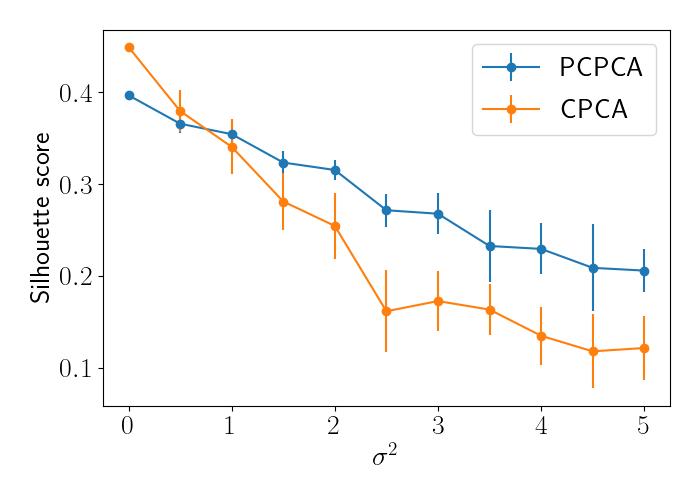
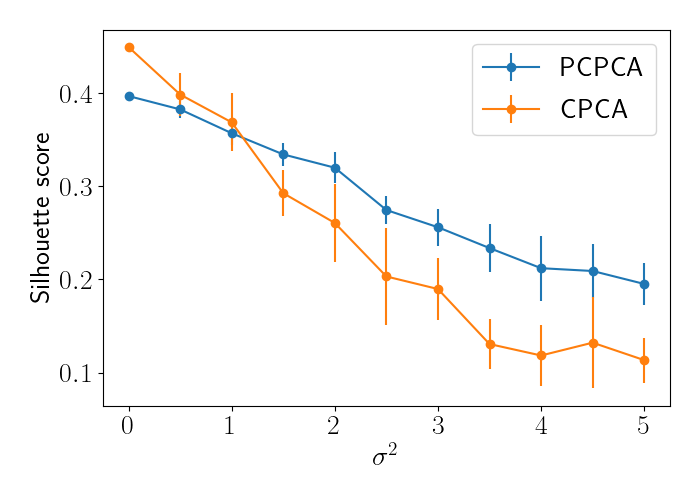
cleanup

diff --git a/experiments/realworld/mouse_protein_expression/mouse_protein_expression_vary_sigma2.py b/experiments/realworld/mouse_protein_expression/mouse_protein_expression_vary_sigma2.py
@@ -66,8 +66,8 @@ if __name__ == "__main__":
     best_gammas_cpca = []
     best_gammas_pcpca = []
 
-    best_rand_scores_cpca = np.empty((n_repeats, len(sigma2_range)))
-    best_rand_scores_pcpca = np.empty((n_repeats, len(sigma2_range)))
+    best_cluster_scores_cpca = np.empty((n_repeats, len(sigma2_range)))
+    best_cluster_scores_pcpca = np.empty((n_repeats, len(sigma2_range)))
 
     for repeat_ii in range(n_repeats):
         for sigma2_ii, sigma2 in enumerate(sigma2_range):
@@ -80,7 +80,7 @@ if __name__ == "__main__":
             curr_Y = Y + np.random.normal(loc=0,
                                           scale=np.sqrt(sigma2), size=(p, m))
 
-            rand_scores_cpca = []
+            cluster_scores_cpca = []
             cpca_gamma_plot_list = []
             for ii, gamma in enumerate(gamma_range_cpca):
 
@@ -96,17 +96,17 @@ if __name__ == "__main__":
                 cpca_gamma_plot_list.append(gamma)
 
                 true_labels = pd.factorize(X_df.Genotype)[0]
-                rand_score = silhouette_score(
+                cluster_score = silhouette_score(
                     X=X_reduced.T, labels=true_labels)
-                rand_scores_cpca.append(rand_score)
+                cluster_scores_cpca.append(cluster_score)
 
             best_gamma = np.array(gamma_range_cpca)[
-                np.argmax(np.array(rand_scores_cpca))]
+                np.argmax(np.array(cluster_scores_cpca))]
             best_gammas_cpca.append(best_gamma)
-            best_rand_scores_cpca[repeat_ii, sigma2_ii] = np.max(
-                np.array(rand_scores_cpca))
+            best_cluster_scores_cpca[repeat_ii, sigma2_ii] = np.max(
+                np.array(cluster_scores_cpca))
 
-            rand_scores_pcpca = []
+            cluster_scores_pcpca = []
             pcpca_gamma_plot_list = []
             for ii, gamma in enumerate(gamma_range_pcpca):
 
@@ -123,22 +123,22 @@ if __name__ == "__main__":
                 pcpca_gamma_plot_list.append(gamma)
 
                 true_labels = pd.factorize(X_df.Genotype)[0]
-                rand_score = silhouette_score(
+                cluster_score = silhouette_score(
                     X=X_reduced.T, labels=true_labels)
-                rand_scores_pcpca.append(rand_score)
+                cluster_scores_pcpca.append(cluster_score)
 
             best_gamma = np.array(gamma_range_pcpca)[
-                np.argmax(np.array(rand_scores_pcpca))]
+                np.argmax(np.array(cluster_scores_pcpca))]
             best_gammas_pcpca.append(best_gamma)
-            best_rand_scores_pcpca[repeat_ii, sigma2_ii] = np.max(
-                np.array(rand_scores_pcpca))
+            best_cluster_scores_pcpca[repeat_ii, sigma2_ii] = np.max(
+                np.array(cluster_scores_pcpca))
 
     plt.figure(figsize=(7, 5))
 
-    plt.errorbar(sigma2_range, np.mean(best_rand_scores_pcpca, axis=0), yerr=mean_confidence_interval(
-        best_rand_scores_pcpca), fmt='-o', label="PCPCA")
-    plt.errorbar(sigma2_range, np.mean(best_rand_scores_cpca, axis=0), yerr=mean_confidence_interval(
-        best_rand_scores_cpca), fmt='-o', label="CPCA")
+    plt.errorbar(sigma2_range, np.mean(best_cluster_scores_pcpca, axis=0), yerr=mean_confidence_interval(
+        best_cluster_scores_pcpca), fmt='-o', label="PCPCA")
+    plt.errorbar(sigma2_range, np.mean(best_cluster_scores_cpca, axis=0), yerr=mean_confidence_interval(
+        best_cluster_scores_cpca), fmt='-o', label="CPCA")
     plt.legend()
     plt.xlabel(r'$\sigma^2$')
     plt.ylabel("Silhouette score")

diff --git a/experiments/realworld/mouse_protein_expression/mouse_protein_expression_silhouette.py b/experiments/realworld/mouse_protein_expression/mouse_protein_expression_silhouette.py
@@ -7,7 +7,6 @@ import pandas as pd
 import matplotlib.pyplot as plt
 import seaborn as sns
 from sklearn.cluster import KMeans
-from sklearn.metrics import adjusted_rand_score
 from sklearn.metrics import silhouette_score
 from sklearn.decomposition import PCA
 
@@ -54,7 +53,7 @@ if __name__ == "__main__":
     gamma_range_cpca = list(np.linspace(0, 400, 40))
     gamma_range_pcpca = list(np.linspace(0, 0.99, 40))
 
-    rand_scores_cpca = []
+    cluster_scores_cpca = []
     cpca_gamma_plot_list = []
     for ii, gamma in enumerate(gamma_range_cpca):
 
@@ -71,11 +70,11 @@ if __name__ == "__main__":
         cpca_gamma_plot_list.append(gamma)
 
         true_labels = pd.factorize(X_df.Genotype)[0]
-        rand_score = silhouette_score(X=X_reduced.T, labels=true_labels)
-        print("gamma={}, rand score={}".format(gamma, rand_score))
-        rand_scores_cpca.append(rand_score)
+        cluster_score = silhouette_score(X=X_reduced.T, labels=true_labels)
+        print("gamma={}, cluster score={}".format(gamma, cluster_score))
+        cluster_scores_cpca.append(cluster_score)
 
-    rand_scores_pcpca = []
+    cluster_scores_pcpca = []
     pcpca_gamma_plot_list = []
     for ii, gamma in enumerate(gamma_range_pcpca):
         gamma = gamma
@@ -91,27 +90,27 @@ if __name__ == "__main__":
         pcpca_gamma_plot_list.append(gamma)
 
         true_labels = pd.factorize(X_df.Genotype)[0]
-        rand_score = silhouette_score(X=X_reduced.T, labels=true_labels)
-        print("gamma'=*{}, rand score={}".format(gamma, rand_score))
-        rand_scores_pcpca.append(rand_score)
+        cluster_score = silhouette_score(X=X_reduced.T, labels=true_labels)
+        print("gamma'=*{}, cluster score={}".format(gamma, cluster_score))
+        cluster_scores_pcpca.append(cluster_score)
 
     plt.figure(figsize=(28, 6))
     plt.subplot(141)
-    plt.plot(cpca_gamma_plot_list, rand_scores_cpca, '-o', linewidth=2)
+    plt.plot(cpca_gamma_plot_list, cluster_scores_cpca, '-o', linewidth=2)
     plt.title("CPCA")
     plt.ylim([0, 1])
     plt.xlim([0, cpca_gamma_plot_list[-1] + 40])
     plt.axvline(cpca_fail_gamma, color="black", linestyle="--")
-    plt.axhline(np.max(rand_scores_cpca), color="red", linestyle="--")
+    plt.axhline(np.max(cluster_scores_cpca), color="red", linestyle="--")
     plt.xlabel(r'$\gamma^\prime$')
     plt.ylabel("Silhouette score")
     plt.subplot(142)
-    plt.plot(pcpca_gamma_plot_list, rand_scores_pcpca, '-o', linewidth=2)
+    plt.plot(pcpca_gamma_plot_list, cluster_scores_pcpca, '-o', linewidth=2)
     plt.title("PCPCA")
     plt.ylim([0, 1])
     plt.xlim([0, pcpca_gamma_plot_list[-1] + 0.1])
     plt.axvline(pcpca_fail_gamma, color="black", linestyle="--")
-    plt.axhline(np.max(rand_scores_pcpca), color="red", linestyle="--")
+    plt.axhline(np.max(cluster_scores_pcpca), color="red", linestyle="--")
     plt.xlabel(r'$\gamma^\prime$')
     plt.ylabel("Silhouette score")
 
@@ -167,10 +166,10 @@ if __name__ == "__main__":
 
     plt.tight_layout()
     plt.savefig(
-        "../../../plots/mouse_protein_expression/rand_index_comparison.png")
+        "../../../plots/mouse_protein_expression/cluster_score_comparison.png")
 
-    print(np.max(rand_scores_cpca))
-    print(np.max(rand_scores_pcpca))
+    print(np.max(cluster_scores_cpca))
+    print(np.max(cluster_scores_pcpca))
     plt.show()
 
     import ipdb

diff --git a/experiments/realworld/scrnaseq/single_cell_bmmc_silhouette.py b/experiments/realworld/scrnaseq/single_cell_bmmc_silhouette.py
@@ -64,7 +64,7 @@ if __name__ == "__main__":
 
     gamma_range_cpca = np.linspace(0, 5, 20)
 
-    rand_scores_cpca = []
+    cluster_scores_cpca = []
     cpca_gamma_plot_list = []
     for ii, gamma in enumerate(gamma_range_cpca):
 
@@ -80,9 +80,9 @@ if __name__ == "__main__":
         cpca_gamma_plot_list.append(gamma)
 
         true_labels = pd.factorize(X_df.condition)[0]
-        rand_score = silhouette_score(X=X_reduced.T, labels=true_labels)
-        print("gamma={}, rand score={}".format(gamma, rand_score))
-        rand_scores_cpca.append(rand_score)
+        cluster_score = silhouette_score(X=X_reduced.T, labels=true_labels)
+        print("gamma={}, cluster score={}".format(gamma, cluster_score))
+        cluster_scores_cpca.append(cluster_score)
 
         X_reduced_df = pd.DataFrame(X_reduced.T, columns=["PCPC1", "PCPC2"])
         X_reduced_df['condition'] = X_labels
@@ -91,7 +91,7 @@ if __name__ == "__main__":
 
     gamma_range_pcpca = np.linspace(0, 1-1e-3, 20)
 
-    rand_scores_pcpca = []
+    cluster_scores_pcpca = []
     pcpca_gamma_plot_list = []
     for ii, gamma in enumerate(gamma_range_pcpca):
 
@@ -106,9 +106,9 @@ if __name__ == "__main__":
         pcpca_gamma_plot_list.append(gamma)
 
         true_labels = pd.factorize(X_df.condition)[0]
-        rand_score = silhouette_score(X=X_reduced.T, labels=true_labels)
-        print("gamma={}, rand score={}".format(gamma, rand_score))
-        rand_scores_pcpca.append(rand_score)
+        cluster_score = silhouette_score(X=X_reduced.T, labels=true_labels)
+        print("gamma={}, cluster score={}".format(gamma, cluster_score))
+        cluster_scores_pcpca.append(cluster_score)
 
         X_reduced_df = pd.DataFrame(X_reduced.T, columns=["PCPC1", "PCPC2"])
         X_reduced_df['condition'] = X_labels
@@ -118,20 +118,20 @@ if __name__ == "__main__":
     plt.figure(figsize=(14, 6))
 
     plt.subplot(121)
-    plt.plot(cpca_gamma_plot_list, rand_scores_cpca, '-o', linewidth=2)
+    plt.plot(cpca_gamma_plot_list, cluster_scores_cpca, '-o', linewidth=2)
     plt.title("CPCA")
     plt.ylim([0, 1])
     plt.axvline(cpca_fail_gamma, color="black", linestyle="--")
-    plt.axhline(np.max(rand_scores_cpca), color="red", linestyle="--")
+    plt.axhline(np.max(cluster_scores_cpca), color="red", linestyle="--")
     plt.xlabel(r'$\gamma^\prime$')
     plt.ylabel("Silhouette score")
 
     plt.subplot(122)
-    plt.plot(pcpca_gamma_plot_list, rand_scores_pcpca, '-o', linewidth=2)
+    plt.plot(pcpca_gamma_plot_list, cluster_scores_pcpca, '-o', linewidth=2)
     plt.title("PCPCA")
     plt.ylim([0, 1])
     plt.axvline(pcpca_fail_gamma, color="black", linestyle="--")
-    plt.axhline(np.max(rand_scores_pcpca), color="red", linestyle="--")
+    plt.axhline(np.max(cluster_scores_pcpca), color="red", linestyle="--")
     plt.xlabel(r'$\gamma^\prime$')
     plt.ylabel("Silhouette score")
     plt.tight_layout()

diff --git a/experiments/realworld/mouse_protein_expression/mouse_protein_expression_missing_data.py b/experiments/realworld/mouse_protein_expression/mouse_protein_expression_missing_data.py
@@ -119,8 +119,8 @@ for ii, missing_p in enumerate(missing_p_range):
     X_reduced = (X_reduced.T / X_reduced.T.std(0)).T
 
     true_labels = pd.factorize(X_df.Genotype)[0]
-    rand_score = silhouette_score(X=X_reduced.T, labels=true_labels)
-    print("gamma=n/m*{}, rand score={}".format(gamma, rand_score))
+    cluster_score = silhouette_score(X=X_reduced.T, labels=true_labels)
+    print("gamma=n/m*{}, cluster score={}".format(gamma, cluster_score))
 
     # Plot reduced foreground data
     X_reduced_df = pd.DataFrame(X_reduced.T, columns=["PCPC1", "PCPC2"])
@@ -143,7 +143,7 @@ for ii, missing_p in enumerate(missing_p_range):
     plt.xlabel(r'PCPC1')
     plt.ylabel("PCPC2")
     plt.title("Fraction missing: {}\nSilhouette score: {}".format(
-        missing_p, round(rand_score, 2)))
+        missing_p, round(cluster_score, 2)))
 
 plt.tight_layout()
 plt.savefig("../../../plots/mouse_protein_expression/mouse_missing_data.png")

diff --git a/README.md b/README.md
@@ -1,22 +1,30 @@
 # pcpca
 
-Models and algorithms for probabilistic contrastive principal component analysis (PCPCA).
+This repo contains models and algorithms for probabilistic contrastive principal component analysis (PCPCA).
+
+The accompanying paper can be found here: XXX.
+
+## Motivation
+
+Given a foreground dataset X and a backround dataset Y, PCPCA is designed to find structure and variation that is enriched in the foreground relative to the background.
+
+## Example
 
 Given a p by n matrix X of foreground samples and a p by m matrix Y of background samples, PCPCA can be fit as follows.
 
 ```python
-pcpca = PCPCA(pcpca = PCPCA(gamma=0.7, n_components=2)
+pcpca = PCPCA(gamma=0.7, n_components=2)
 pcpca.fit(X, Y)
 ```
 
 Once the model is fit, samples can be projected onto the components by calling `transform`:
 
 ```python
-pcpca.transform(X, Y)
+X_reduced, Y_reduced = pcpca.transform(X, Y)
 ```
 
 Or both of these steps can be done with one call to `fit_transform`:
 
 ```python
-pcpca.fit_transform(X, Y)
+X_reduced, Y_reduced = pcpca.fit_transform(X, Y)
 ```
